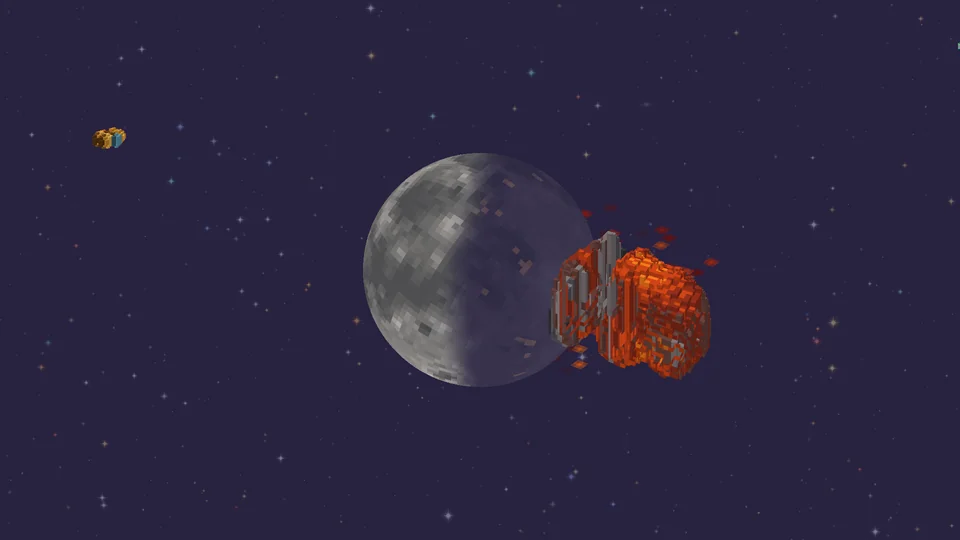
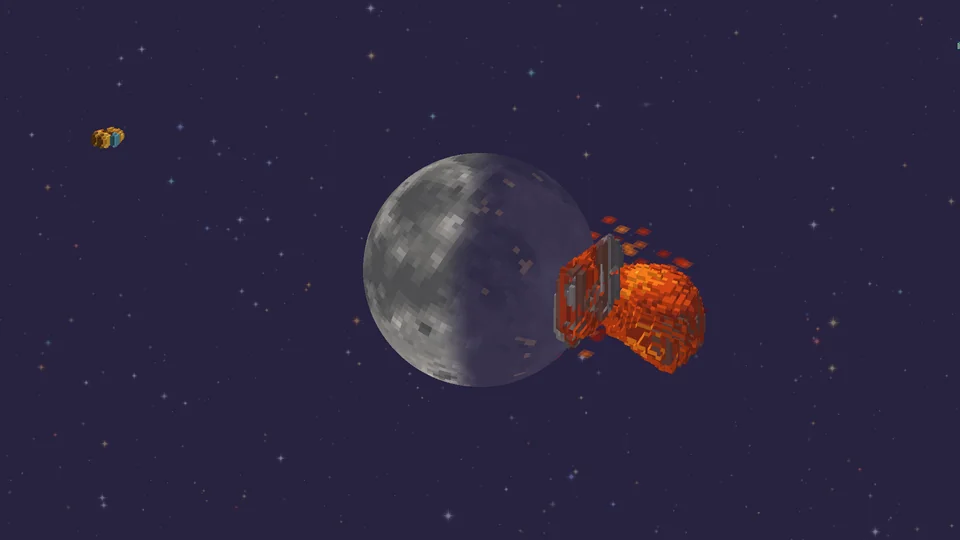
Gallery page of all 17 stills, re-shot from local develop: voxel boosters and canopies

Changed region(s): [[0.5625, 0.3852, 0.75, 0.7111], [0.0938, 0.237, 0.1562, 0.2963]]

diff --git a/gallery.html b/gallery.html
@@ -1,0 +1,171 @@
+<!doctype html>
+<html lang="en">
+<head>
+<meta charset="utf-8">
+<meta name="viewport" content="width=device-width, initial-scale=1">
+<title>New Worlds Gallery</title>
+<meta name="description" content="Screenshots of New Worlds: launches, landings, burns and crashes across its solar systems.">
+<meta property="og:title" content="New Worlds Gallery">
+<meta property="og:image" content="https://computerise.games/img/og.jpg">
+<meta name="theme-color" content="#282240">
+<link rel="icon" href="img/favicon.png" type="image/png">
+<link rel="preconnect" href="https://fonts.googleapis.com">
+<link rel="preconnect" href="https://fonts.gstatic.com" crossorigin>
+<link href="https://fonts.googleapis.com/css2?family=Inter:wght@400;600&display=swap" rel="stylesheet">
+<link rel="stylesheet" href="style.css">
+</head>
+<body>
+<header>
+  <div class="wrap">
+    <a class="brand pixel" href="./">computerise<span>.</span></a>
+    <nav aria-label="Main">
+      <ul class="pixel">
+        <li><a href="./#new-worlds">New Worlds</a></li>
+        <li><a href="https://playnewworlds.com">Play the Demo</a></li>
+        <li><a href="gallery.html" aria-current="page">Gallery</a></li>
+        <li><a href="releases.html">Releases</a></li>
+        <li><a href="./#follow">Follow</a></li>
+      </ul>
+    </nav>
+  </div>
+</header>
+
+<main class="page">
+  <div class="wrap">
+    <h1 class="pixel">Gallery</h1>
+    <p class="lede">Straight from the game in development. Select a screenshot for full size.</p>
+    <ul class="gallery">
+        <li>
+          <a href="img/terra-booster-launch.webp">
+            <img src="img/terra-booster-launch-960.webp" width="960" height="540" loading="lazy"
+                 alt="A rocket lifts off Terra on voxel booster stages, the night side lit by city lights">
+          </a>
+          <span>Booster launch from Terra</span>
+        </li>
+        <li>
+          <a href="img/terra-parachute-descent.webp">
+            <img src="img/terra-parachute-descent-960.webp" width="960" height="540" loading="lazy"
+                 alt="A capsule drifts down to Terra&#x27;s night side under voxel parachutes">
+          </a>
+          <span>Parachuting down to Terra</span>
+        </li>
+        <li>
+          <a href="img/tilt-ares-parachute.webp">
+            <img src="img/tilt-ares-parachute-960.webp" width="960" height="540" loading="lazy"
+                 alt="A capsule under parachutes over the rusty limb of Ares">
+          </a>
+          <span>Parachutes over Ares</span>
+        </li>
+        <li>
+          <a href="img/tilt-aquara-descent.webp">
+            <img src="img/tilt-aquara-descent-960.webp" width="960" height="540" loading="lazy"
+                 alt="A rocket fires its engine to land on the ocean world Aquara">
+          </a>
+          <span>Powered landing on Aquara</span>
+        </li>
+        <li>
+          <a href="img/terra-dawn-burn.webp">
+            <img src="img/terra-dawn-burn-960.webp" width="960" height="540" loading="lazy"
+                 alt="A rocket burns along Terra&#x27;s day/night line, cargo ships trailing behind">
+          </a>
+          <span>Burning along Terra&#x27;s terminator</span>
+        </li>
+        <li>
+          <a href="img/tilt-terra-chase.webp">
+            <img src="img/tilt-terra-chase-960.webp" width="960" height="540" loading="lazy"
+                 alt="The chase camera behind a burning ship over Terra">
+          </a>
+          <span>Chase camera over Terra</span>
+        </li>
+        <li>
+          <a href="img/tilt-terra-lune.webp">
+            <img src="img/tilt-terra-lune-960.webp" width="960" height="540" loading="lazy"
+                 alt="A ship burns over Terra with the moon Lune in the distance">
+          </a>
+          <span>Over Terra, Lune beyond</span>
+        </li>
+        <li>
+          <a href="img/starliner-over-terra.webp">
+            <img src="img/starliner-over-terra-960.webp" width="960" height="540" loading="lazy"
+                 alt="A Starliner burns past Terra among a stream of traffic">
+          </a>
+          <span>Starliner at full thrust</span>
+        </li>
+        <li>
+          <a href="img/colony-ship-departure.webp">
+            <img src="img/colony-ship-departure-960.webp" width="960" height="540" loading="lazy"
+                 alt="A Colony ship burns away from Terra">
+          </a>
+          <span>A Colony ship leaves Terra</span>
+        </li>
+        <li>
+          <a href="img/tilt-carrier-lune.webp">
+            <img src="img/tilt-carrier-lune-960.webp" width="960" height="540" loading="lazy"
+                 alt="A Carrier burns over the grey moon Lune">
+          </a>
+          <span>Carrier over Lune</span>
+        </li>
+        <li>
+          <a href="img/tilt-freighter-ares.webp">
+            <img src="img/tilt-freighter-ares-960.webp" width="960" height="540" loading="lazy"
+                 alt="A Freighter burns past the red planet Ares">
+          </a>
+          <span>Freighter passing Ares</span>
+        </li>
+        <li>
+          <a href="img/tilt-greatport-close.webp">
+            <img src="img/tilt-greatport-close-960.webp" width="960" height="540" loading="lazy"
+                 alt="A long voxel freighter coasting near Terra Greatport">
+          </a>
+          <span>Terra Greatport traffic</span>
+        </li>
+        <li>
+          <a href="img/tilt-glacius-burn.webp">
+            <img src="img/tilt-glacius-burn-960.webp" width="960" height="540" loading="lazy"
+                 alt="A ship burns over the cratered ice moon Glacius">
+          </a>
+          <span>Burning over icy Glacius</span>
+        </li>
+        <li>
+          <a href="img/venera-toxic-approach.webp">
+            <img src="img/venera-toxic-approach-960.webp" width="960" height="540" loading="lazy"
+                 alt="A rocket brakes below Venera as the planet crosses a huge, blazing star">
+          </a>
+          <span>Braking over toxic Venera</span>
+        </li>
+        <li>
+          <a href="img/tilt-serena-chase.webp">
+            <img src="img/tilt-serena-chase-960.webp" width="960" height="540" loading="lazy"
+                 alt="A ship burns over the cloudy world Serena">
+          </a>
+          <span>Serena, in the Gemina system</span>
+        </li>
+        <li>
+          <a href="img/lune-crash-fireball.webp">
+            <img src="img/lune-crash-fireball-960.webp" width="960" height="540" loading="lazy"
+                 alt="A voxel fireball blooms where a ship hit Lune">
+          </a>
+          <span>Too fast at Lune</span>
+        </li>
+        <li>
+          <a href="img/tilt-hud-chase.webp">
+            <img src="img/tilt-hud-chase-960.webp" width="960" height="540" loading="lazy"
+                 alt="The game screen in flight: ship readouts, trajectory and the panel bar">
+          </a>
+          <span>The flight HUD</span>
+        </li>
+    </ul>
+    <div class="ctas">
+      <a class="btn primary" href="https://playnewworlds.com"><img class="gi" src="img/icons/play.png" width="32" height="32" alt="">Play the Demo!</a>
+    </div>
+  </div>
+</main>
+
+<footer>
+  <div class="wrap">
+    <span>&copy; 2026 computerise. Screenshots show the game in development.</span>
+    <span class="pixel">computerise.games</span>
+  </div>
+</footer>
+</body>
+</html>

diff --git a/index.html b/index.html
@@ -39,7 +39,7 @@
     <img src="img/terra-booster-launch.webp"
          srcset="img/terra-booster-launch-960.webp 960w, img/terra-booster-launch.webp 1920w"
          sizes="100vw" width="1920" height="1080"
-         alt="A rocket lifts off Terra on a voxel booster plume, the night side lit by city lights">
+         alt="A rocket lifts off Terra on voxel booster stages, the night side lit by city lights">
   </div>
 
   <div class="wrap">
@@ -196,7 +196,7 @@
         </li>
         <li>
           <a href="img/terra-parachute-descent.webp">
-            <img src="img/terra-parachute-descent-960.webp" width="960" height="540" loading="lazy" alt="A capsule drifts down to Terra's night side under three parachutes">
+            <img src="img/terra-parachute-descent-960.webp" width="960" height="540" loading="lazy" alt="A capsule drifts down to Terra's night side under voxel parachutes">
           </a>
           <span>Parachuting down to Terra</span>
         </li>
